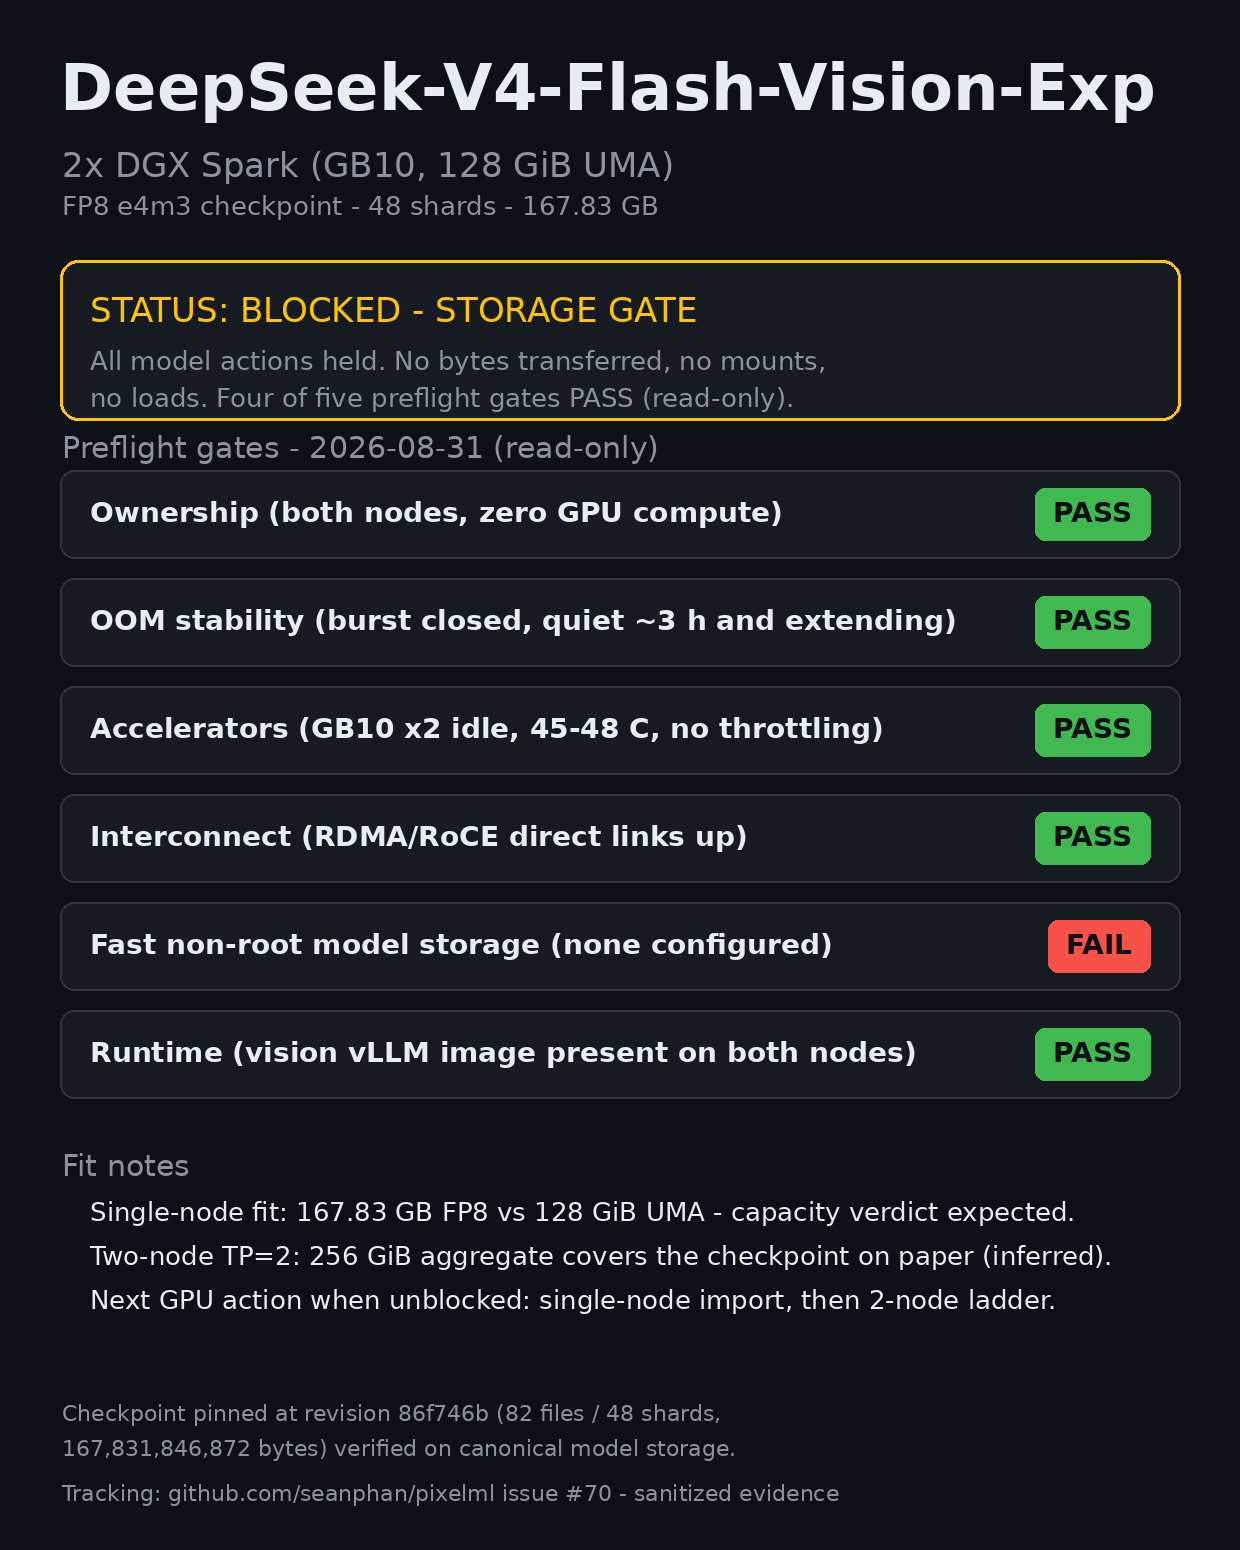
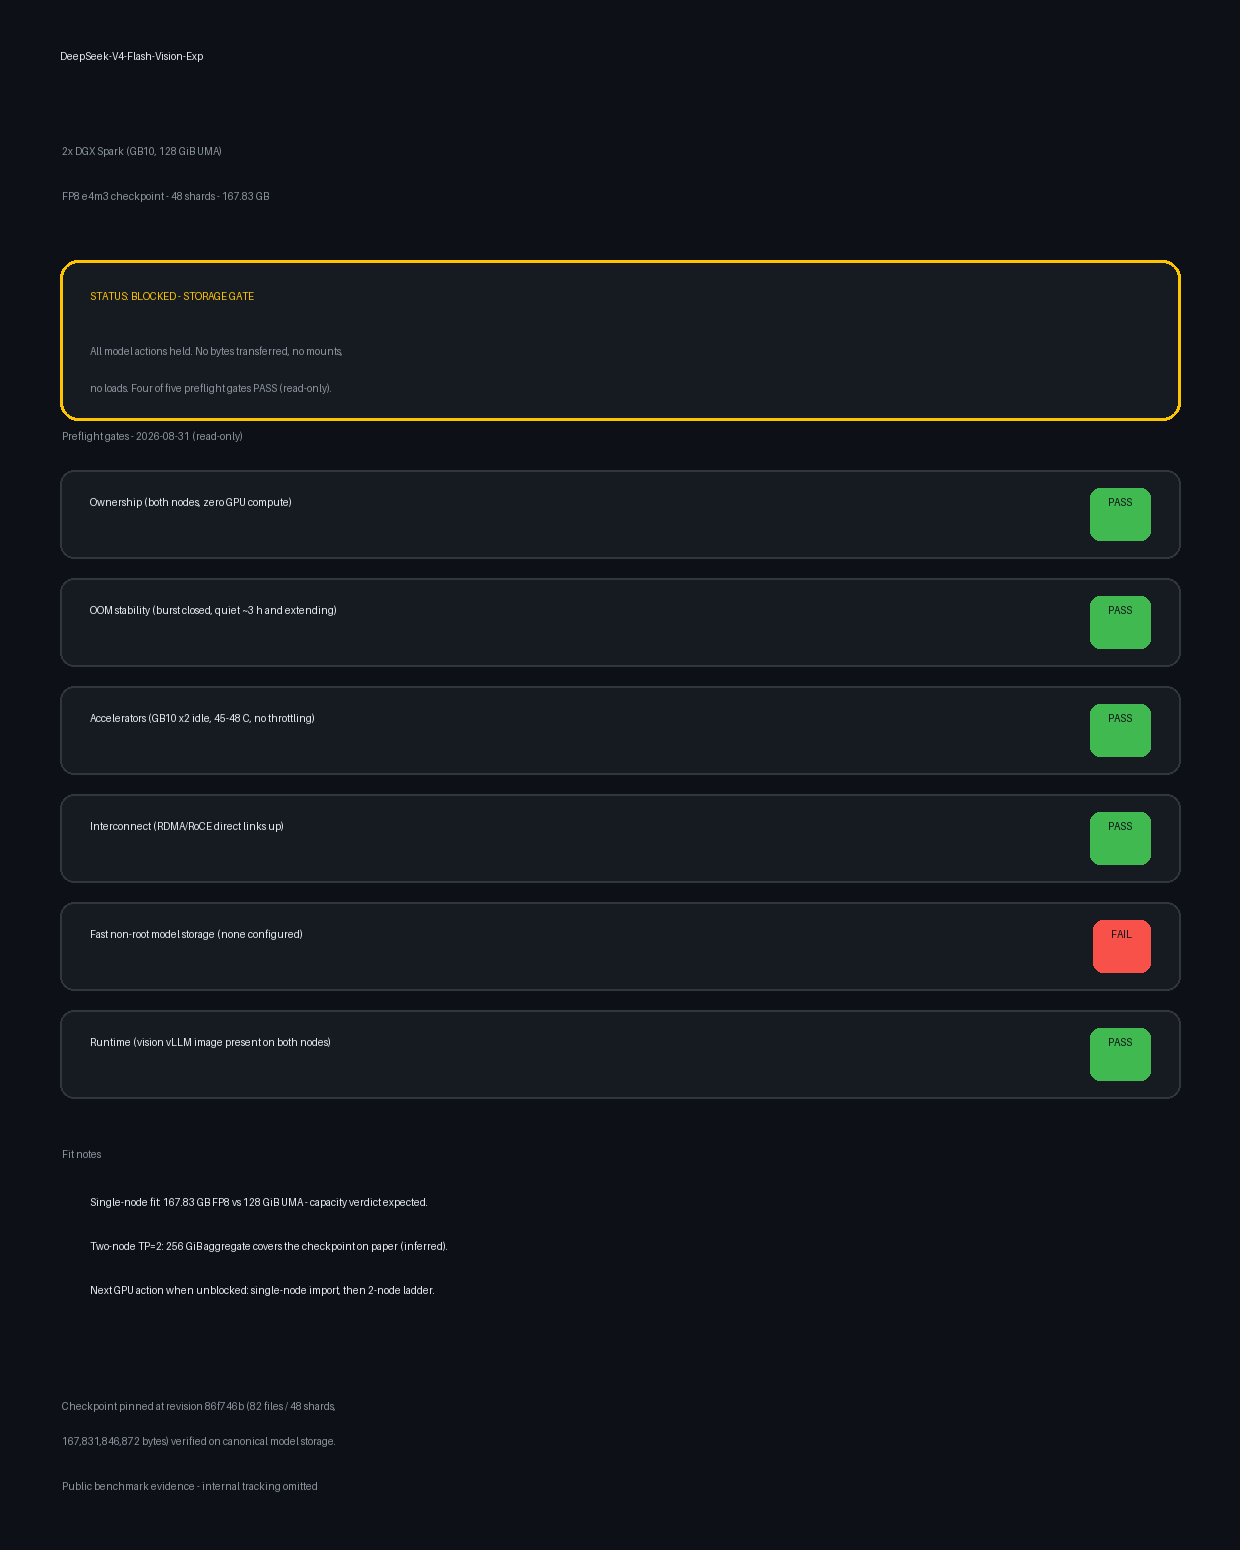
fix: remove private tracker references (#2)

diff --git a/tools/render_card.py b/tools/render_card.py
@@ -74,7 +74,7 @@ for t in fit:
 
 d.text((62, H-150), "Checkpoint pinned at revision 86f746b (82 files / 48 shards,", font=f22, fill=MUT)
 d.text((62, H-115), "167,831,846,872 bytes) verified on canonical model storage.", font=f22, fill=MUT)
-d.text((62, H-70), "Tracking: github.com/seanphan/pixelml issue #70 - sanitized evidence", font=f22, fill=MUT)
+d.text((62, H-70), "Public benchmark evidence - internal tracking omitted", font=f22, fill=MUT)
 
 import os
 os.makedirs("assets", exist_ok=True)

diff --git a/README.md b/README.md
@@ -4,9 +4,7 @@ Fit/startup/performance evidence for the official
 [deepseek-ai/DeepSeek-V4-Flash-Vision-Exp](https://huggingface.co/deepseek-ai/DeepSeek-V4-Flash-Vision-Exp)
 checkpoint (FP8 e4m3, 48 shards, 167.83 GB) on a two-node DGX Spark
 kit. Status: **BLOCKED at the storage gate — no model action has run
-yet**. This repository carries the sanitized evidence trail; the
-tracking issue is
-[PixelML#70](https://github.com/seanphan/pixelml/issues/70).
+yet**. This repository carries the sanitized public evidence trail.
 
 ## TL;DR
 
@@ -34,7 +32,7 @@ tracking issue is
 
 | Gate | Result | Evidence |
 |---|---|---|
-| Ownership | PASS (both nodes; zero GPU compute processes) | #46 release receipt + fresh probe |
+| Ownership | PASS (both nodes; zero GPU compute processes) | sanitized release receipt + fresh probe |
 | OOM stability | PASS-EXTENDING (burst ended 21:12 local; 0 OOM/Xid in last 30 min; window now ~3 h) | kernel journal, sanitized counts only |
 | Accelerators | PASS (GB10 x2, idle, 45-48 C, no throttle flags) | nvidia-smi |
 | Interconnect | PASS (RDMA/RoCE peers up on both nodes) | rdma tools |
@@ -45,8 +43,7 @@ See [EVIDENCE.md](EVIDENCE.md) for the full sanitized preflight.
 
 ## Ladder (planned, gated)
 
-1. Storage unblock (owner action; three options posted to the tracking
-   issue).
+1. Storage unblock (owner action recorded in internal tracking).
 2. Single-node import/capacity gate: bounded load attempt with
    memory telemetry; capacity failure is a valid terminal verdict.
 3. Two-node distributed ladder: TP=2 via the supported runtime path,

diff --git a/EVIDENCE.md b/EVIDENCE.md
@@ -1,13 +1,9 @@
 # Evidence log — Vision-Exp on 2x DGX Spark
 
-Sanitized, chronological. Every entry links its tracking-issue
-receipt. No raw logs, IPs, hostnames, or process identifiers.
+Sanitized, chronological. No raw logs, IPs, hostnames, private tracking
+references, or process identifiers.
 
 ## 2026-08-31 — preflight (read-only)
-
-Receipts: [#70 ack](https://github.com/seanphan/pixelml/issues/70#issuecomment-5480349566) |
-[#46 release](https://github.com/seanphan/pixelml/issues/46#issuecomment-5480046695) |
-[storage verdict](https://github.com/seanphan/pixelml/issues/70#issuecomment-5480508581)
 
 ### Ownership
 
@@ -84,7 +80,7 @@ Receipts: [#70 ack](https://github.com/seanphan/pixelml/issues/70#issuecomment-5
 
 **BLOCKED_STORAGE.** Four of five preflight gates pass; the storage
 gate fails and blocks all model actions. Three owner-unblock options
-are posted on the tracking issue. No transfer, mount, service, or
+are recorded in internal tracking. No transfer, mount, service, or
 model action has been performed by this lane.
 
 ## Pending (gated on storage unblock)
